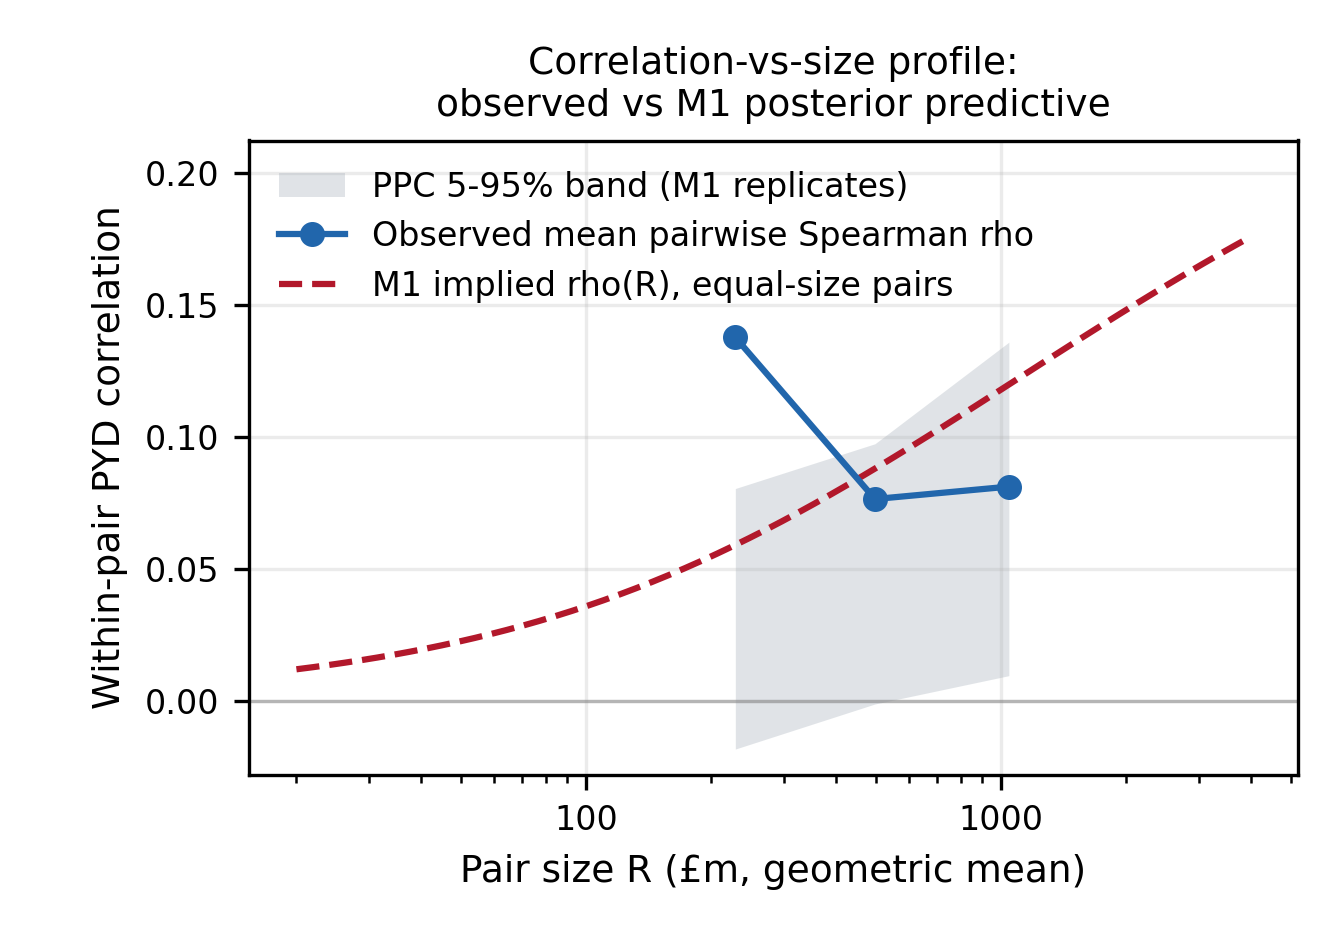
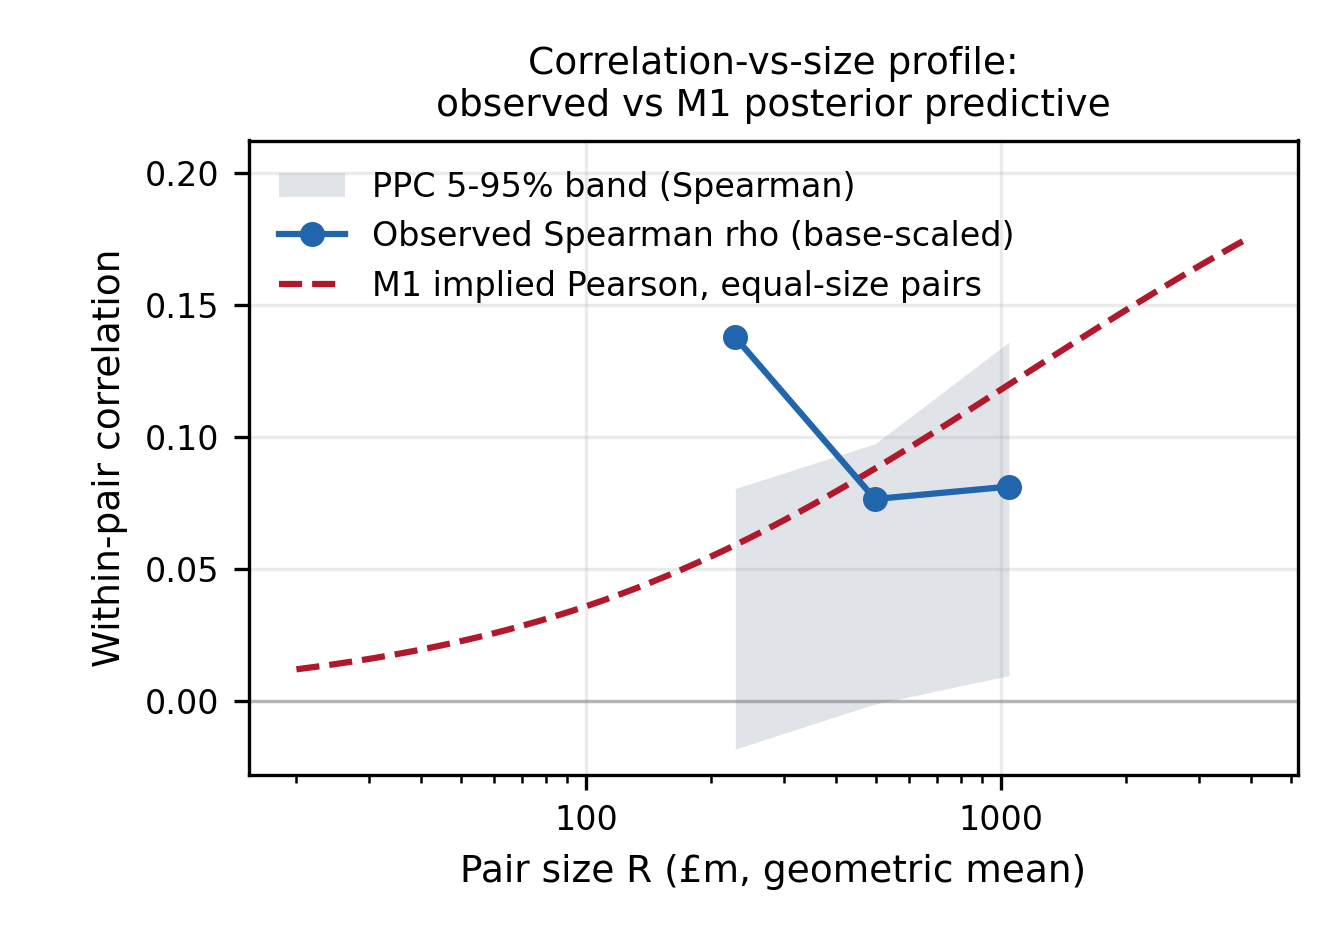
Label systemic profile and Pearson reference precisely

Changed region(s): [[0.3984, 0.1871, 0.7661, 0.343], [0.0613, 0.2183, 0.0919, 0.7796]]

diff --git a/src/systemic_ppc.py b/src/systemic_ppc.py
@@ -39,7 +39,10 @@ N_REPS = 500
 
 
 def implied_curve(dz, grid):
-    """M1's implied within-pair correlation at each equal-size pair size in `grid`, over the posterior draws."""
+    """M1's implied Pearson correlation for equal-size pairs, averaged over posterior draws.
+
+    This reference is not the pairwise Spearman statistic used for the points and PPC band.
+    """
     nu_d, ts_d = dz["nu_clean"], dz["tau_s"]
     cfac = np.where(nu_d > NU_VAR_EPS, nu_d / (nu_d - 2.0) * np.exp(2 * ts_d ** 2), np.nan)
     curve = np.empty_like(grid)
@@ -57,16 +60,16 @@ def profile_figure(xbin, band, bins_obs, grid, curve):
     with PFS.style():
         fig, ax = PFS.figure("systemic_correlation_profile", 3.1)
         ax.fill_between(xbin, band[0], band[1], color="#9aa5b1", alpha=0.30, lw=0,
-                        label="PPC 5-95% band (M1 replicates)")
+                        label="PPC 5-95% band (Spearman)")
         ax.plot(xbin, bins_obs, "o-", color="#2166ac", lw=1.5, markersize=5, zorder=3,
-                label="Observed mean pairwise Spearman rho")
+                label="Observed Spearman rho (base-scaled)")
         # the pair size is R: the base fit has gamma = 0 in the likelihood since option B (10 October 2026), so the
         # effective size R (1/H)^gamma these labels named is R itself
         ax.plot(grid, curve, "--", color="#b2182b", lw=1.5,
-                label="M1 implied rho(R), equal-size pairs")
+                label="M1 implied Pearson, equal-size pairs")
         ax.set_xscale("log")
         ax.set_xlabel("Pair size R (£m, geometric mean)")
-        ax.set_ylabel("Within-pair PYD correlation")
+        ax.set_ylabel("Within-pair correlation")
         ax.set_title("Correlation-vs-size profile:\nobserved vs M1 posterior predictive")
         ax.grid(True, alpha=0.25)
         ax.axhline(0, color="0.5", lw=0.8, alpha=0.5)

diff --git a/src/systemic_correlation_check.py b/src/systemic_correlation_check.py
@@ -1,11 +1,13 @@
 """Stage 0 of specifications/systemic-correlation-analysis.md.
 
-Descriptive gate for the systemic-vs-non-systemic question: does the within-year
-correlation of signed PYD severities rise with syndicate size?  Rank-based, no MCMC.
+Descriptive gate for the systemic-vs-non-systemic question: does the pairwise
+correlation of base-scaled signed severities across common years rise with syndicate size?
+Rank-based, no MCMC.
 
 Method (spec section 3):
-  1. Standardise severities with the archived M0 posterior means (no exp(s_t) term --
-     per-year scale shocks are not persisted; harmless for signed rank stats, see spec).
+  1. Standardise severities with the M0 posterior-mean base scale. The per-year scale
+     shocks are not persisted or divided out; varying year scales can change ranks
+     across years and hence the pairwise correlations.
   2. Drop RITC observations.
   3. Pairwise Spearman correlations over >=6 common reporting years, binned by pair
      effective size terciles; trend stats D (top-bottom mean rho) and Kendall tau.

diff --git a/src/test_figure_layout.py b/src/test_figure_layout.py
@@ -262,7 +262,7 @@ def test_the_check_sees_the_profiles_legend_where_it_was():
     with PFS.style():
         ax.set_ylim(-0.0285, 0.1825)               # the limits Matplotlib chose from the data before
         hits = PFS.data_under_legend(fig, ax, legend)
-    assert "Observed mean pairwise Spearman rho" in hits, hits
+    assert "Observed Spearman rho (base-scaled)" in hits, hits
 
 
 def test_the_script_makes_room_where_it_can_and_refuses_where_it_cannot(monkeypatch):
